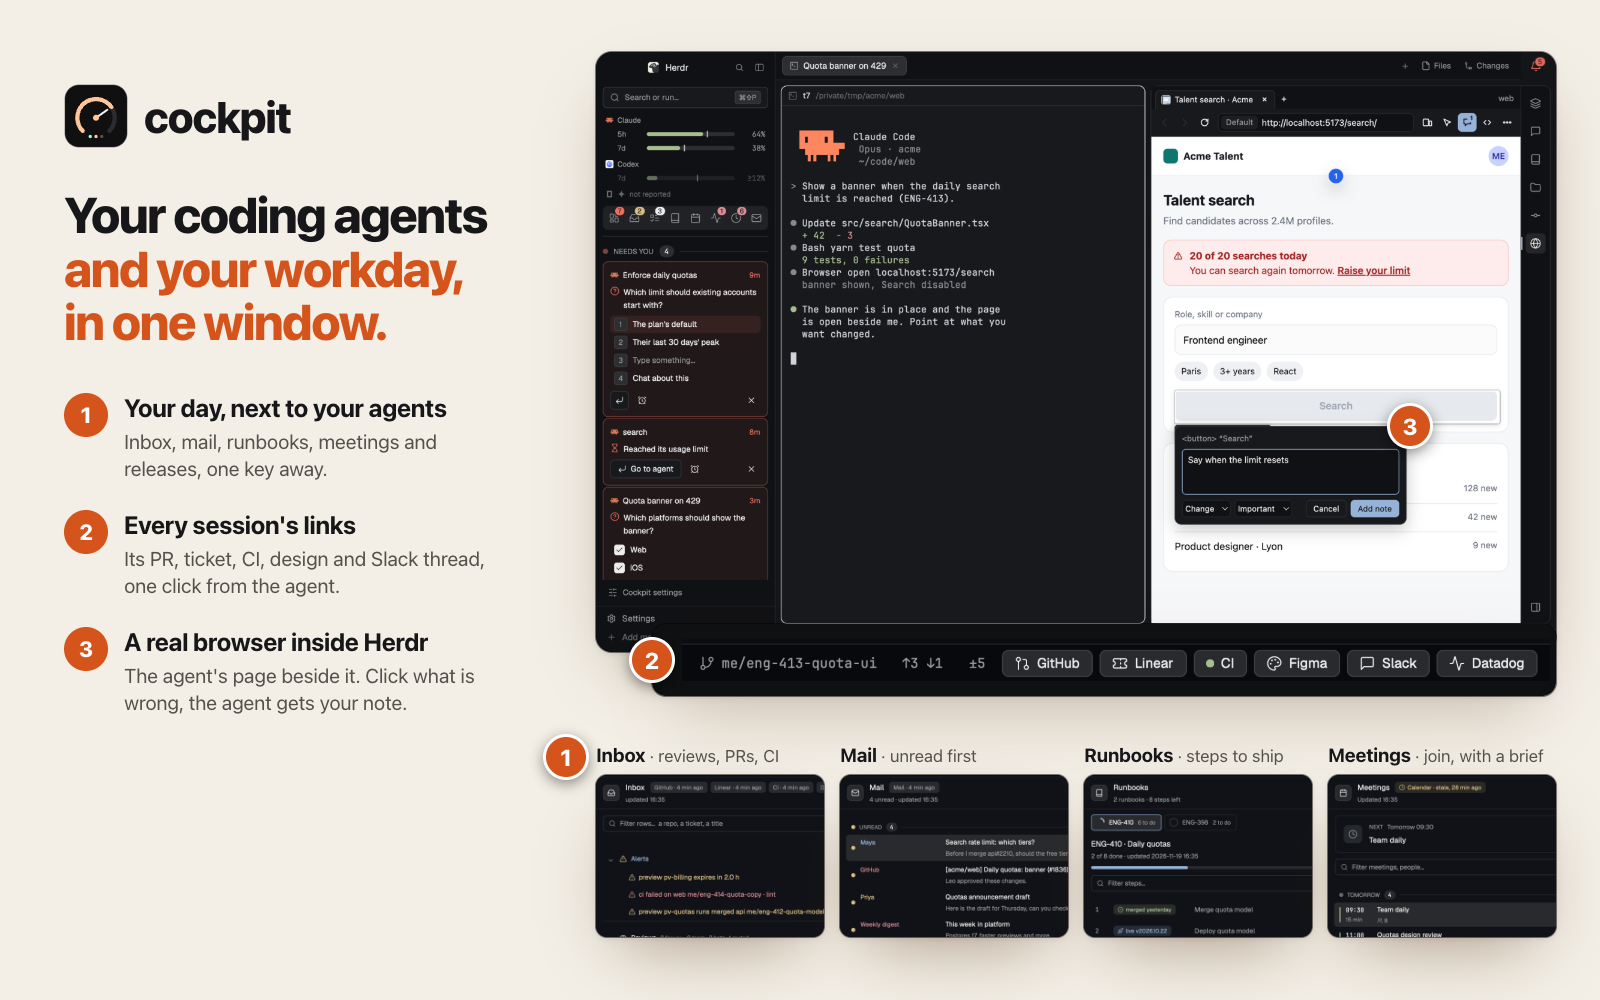
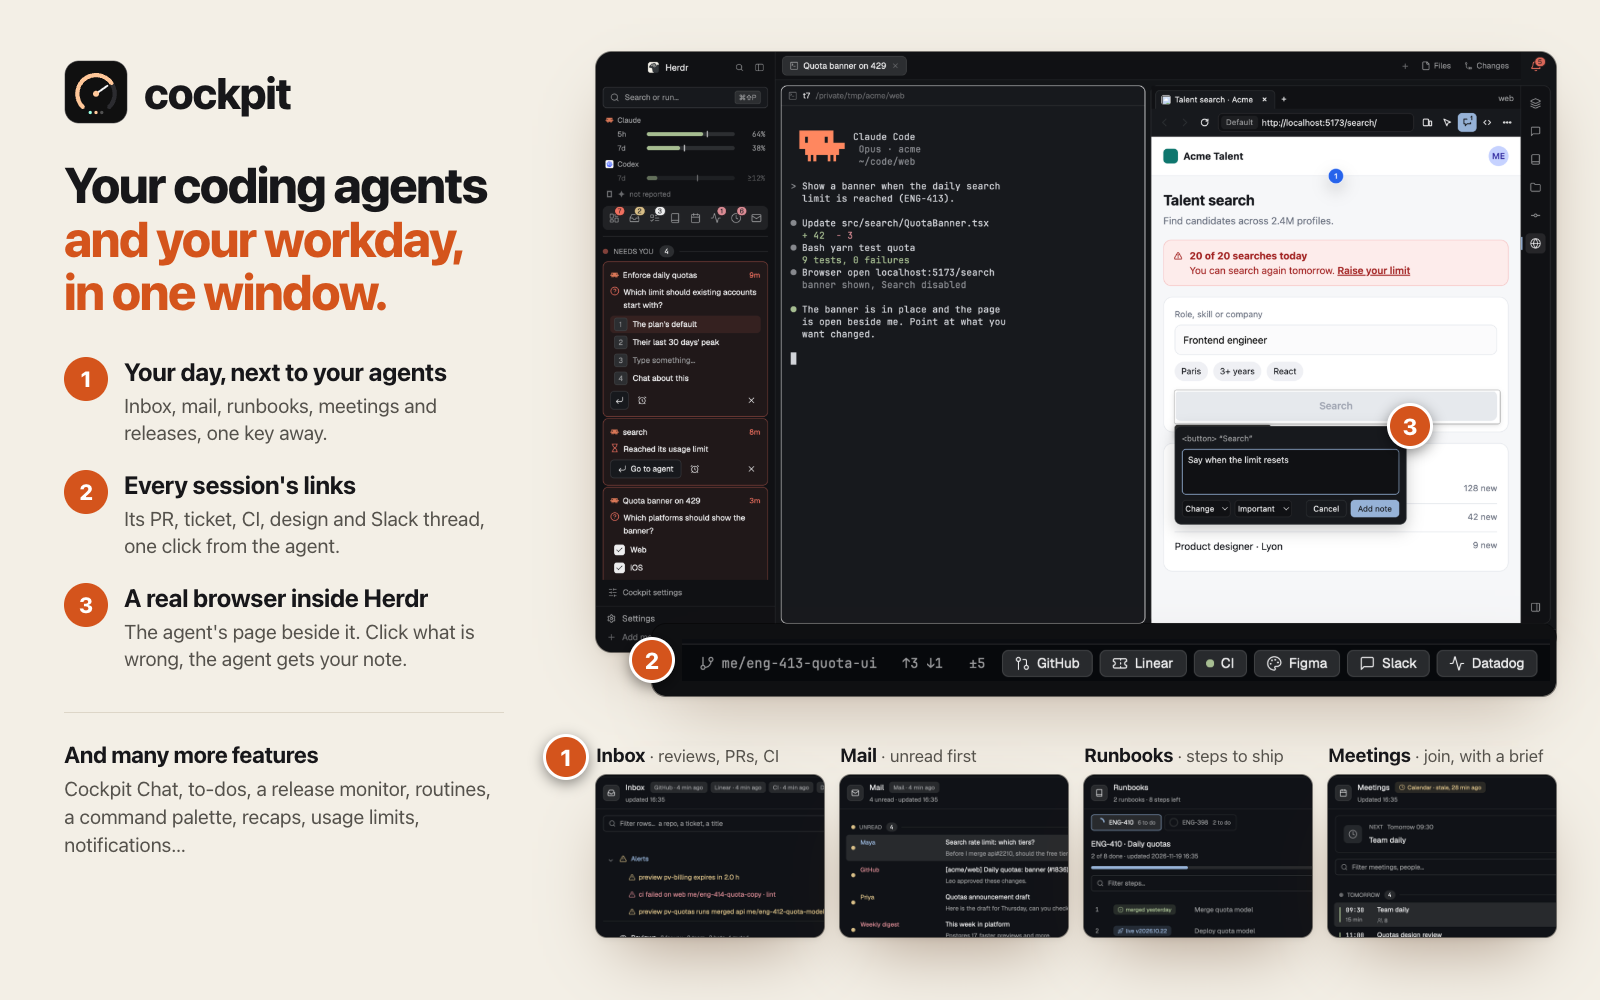
Gallery picture and site say there are many more features, and name some

Changed region(s): [[0.0312, 0.062, 0.3125, 0.713], [0.0312, 0.744, 0.3125, 0.868]]

diff --git a/docs/screenshots/preview.html b/docs/screenshots/preview.html
@@ -6,17 +6,19 @@
   * { box-sizing: border-box; }
   html, body { margin: 0; width: 1600px; height: 1000px; overflow: hidden; background: var(--bg); color: var(--ink);
     font-family: ui-sans-serif, system-ui, -apple-system, "Helvetica Neue", sans-serif; -webkit-font-smoothing: antialiased; }
-  .left { position: absolute; left: 64px; top: 84px; width: 440px; }
+  .left { position: absolute; left: 64px; top: 60px; width: 440px; }
   .brand { display: flex; align-items: center; gap: 16px; font-size: 44px; font-weight: 800; letter-spacing: -0.03em; }
   .brand img { width: 64px; height: 64px; }
-  h1 { margin: 40px 0 0; font-size: 50px; line-height: 1.07; letter-spacing: -0.035em; font-weight: 800; }
+  h1 { margin: 34px 0 0; font-size: 50px; line-height: 1.07; letter-spacing: -0.035em; font-weight: 800; }
   h1 span { color: var(--orange); display: block; }
-  ol { list-style: none; margin: 44px 0 0; padding: 0; display: grid; gap: 28px; }
+  ol { list-style: none; margin: 38px 0 0; padding: 0; display: grid; gap: 24px; }
   li { display: grid; grid-template-columns: 44px 1fr; column-gap: 16px; }
   .n, .mark { border-radius: 50%; background: var(--orange); color: #fff; font-weight: 800; display: grid; place-items: center; }
   .n { width: 44px; height: 44px; font-size: 22px; }
   li b { display: block; font-size: 25px; letter-spacing: -0.015em; line-height: 1.2; }
   li p { margin: 5px 0 0; font-size: 20px; line-height: 1.35; color: var(--muted); }
+  .more { margin: 40px 0 0; padding-top: 26px; border-top: 1px solid var(--line); font-size: 20px; line-height: 1.4; color: var(--muted); }
+  .more b { display: block; color: var(--ink); font-size: 23px; letter-spacing: -0.015em; margin-bottom: 4px; }
   .shadow { box-shadow: 0 2px 6px rgb(0 0 0 / 0.08), 0 30px 70px -24px rgb(80 40 10 / 0.45); outline: 1px solid rgb(0 0 0 / 0.5); }
   .shot { position: absolute; left: 596px; top: 52px; width: 960px; height: 600px; border-radius: 16px; overflow: hidden; background: #101010; }
   .shot img { width: 100%; height: 100%; display: block; }
@@ -39,6 +41,7 @@
       <li><div class="n">2</div><div><b>Every session's links</b><p>Its PR, ticket, CI, design and Slack thread, one click from the agent.</p></div></li>
       <li><div class="n">3</div><div><b>A real browser inside Herdr</b><p>The agent's page beside it. Click what is wrong, the agent gets your note.</p></div></li>
     </ol>
+    <p class="more"><b>And many more features</b> Cockpit Chat, to-dos, a release monitor, routines, a command palette, recaps, usage limits, notifications…</p>
   </div>
   <div class="shot shadow"><img src="../app/browser-dark.png" alt=""></div>
   <div class="links shadow"><img src="../app/links-dark.png" alt=""></div>

diff --git a/site/style.css b/site/style.css
@@ -314,6 +314,7 @@ main { display: block; }
 .row.wide { grid-template-columns: minmax(0, 5fr) minmax(0, 7fr); }
 .row.wide:nth-child(even) { grid-template-columns: minmax(0, 7fr) minmax(0, 5fr); }
 .row.stack { grid-template-columns: minmax(0, 1fr); gap: 26px; }
+.rows + .more { max-width: 46rem; margin: 64px auto 0; text-align: center; color: var(--muted); font-size: 1.1rem; }
 .row.stack .row-text { order: 0; max-width: 46rem; margin: 0 auto; text-align: center; }
 .row .frame.strip { max-width: none; }
 .row-text h3 { font-size: clamp(1.4rem, 3vw, 1.9rem); line-height: 1.2; margin-bottom: 14px; }

diff --git a/site/index.html b/site/index.html
@@ -100,6 +100,7 @@
           </figure>
         </div>
       </div>
+      <p class="more">And many more features: Cockpit Chat, to-dos, a release monitor, routines, a command palette, recaps, usage limits and notifications. <a href="#features">See them all</a></p>
     </div>
   </section>
 
